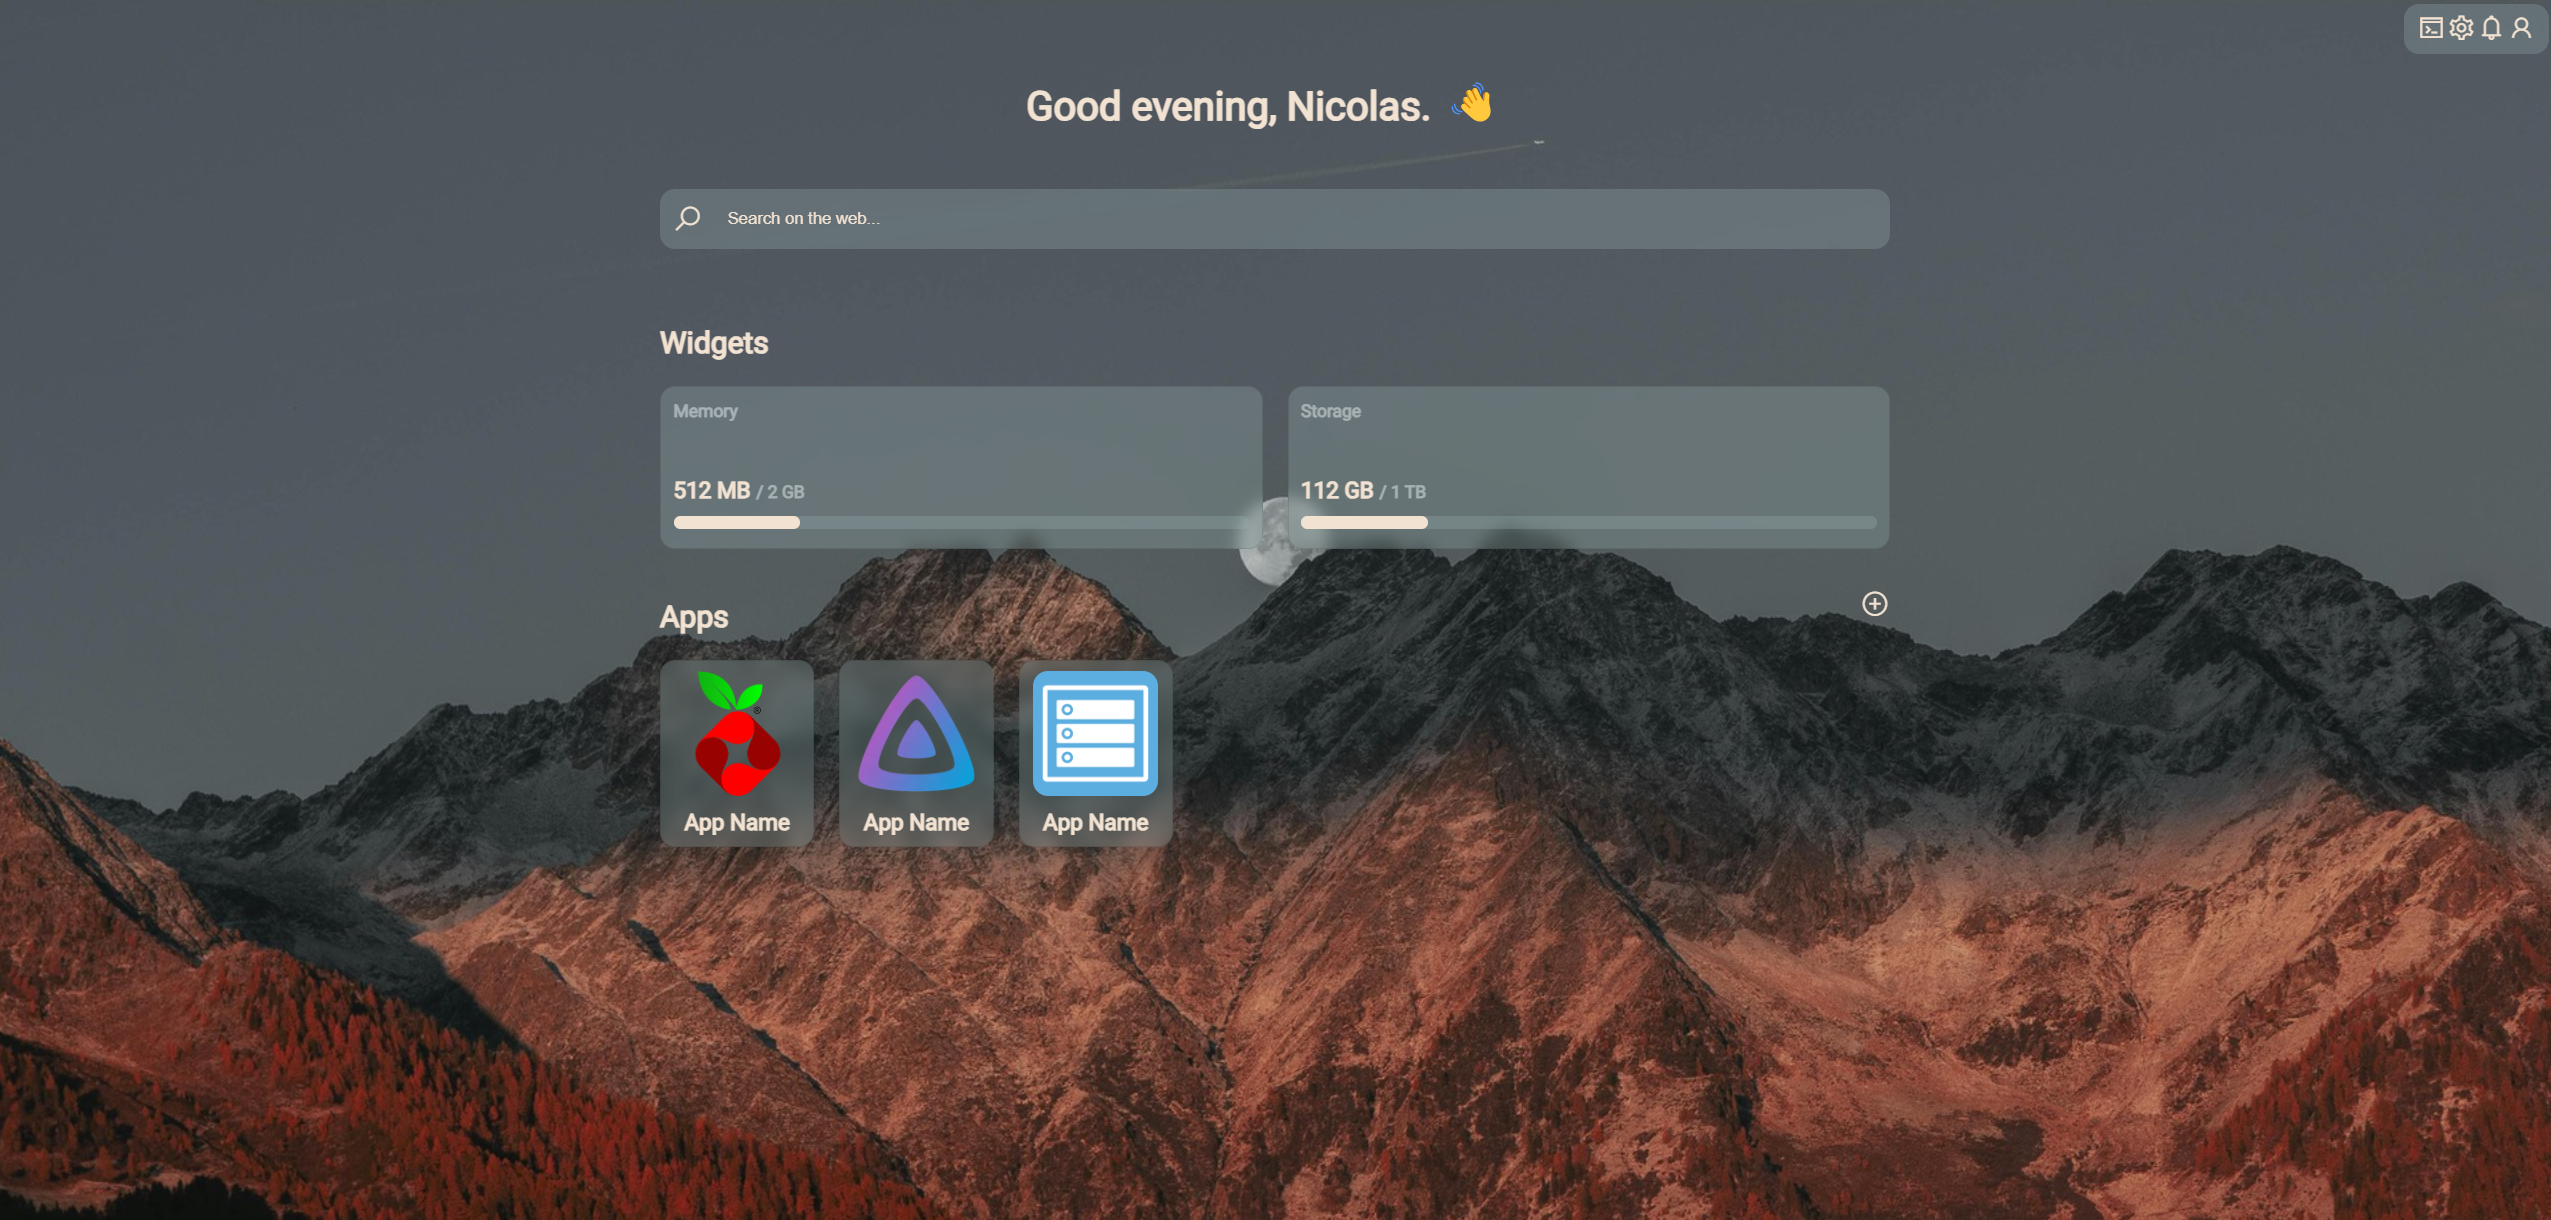
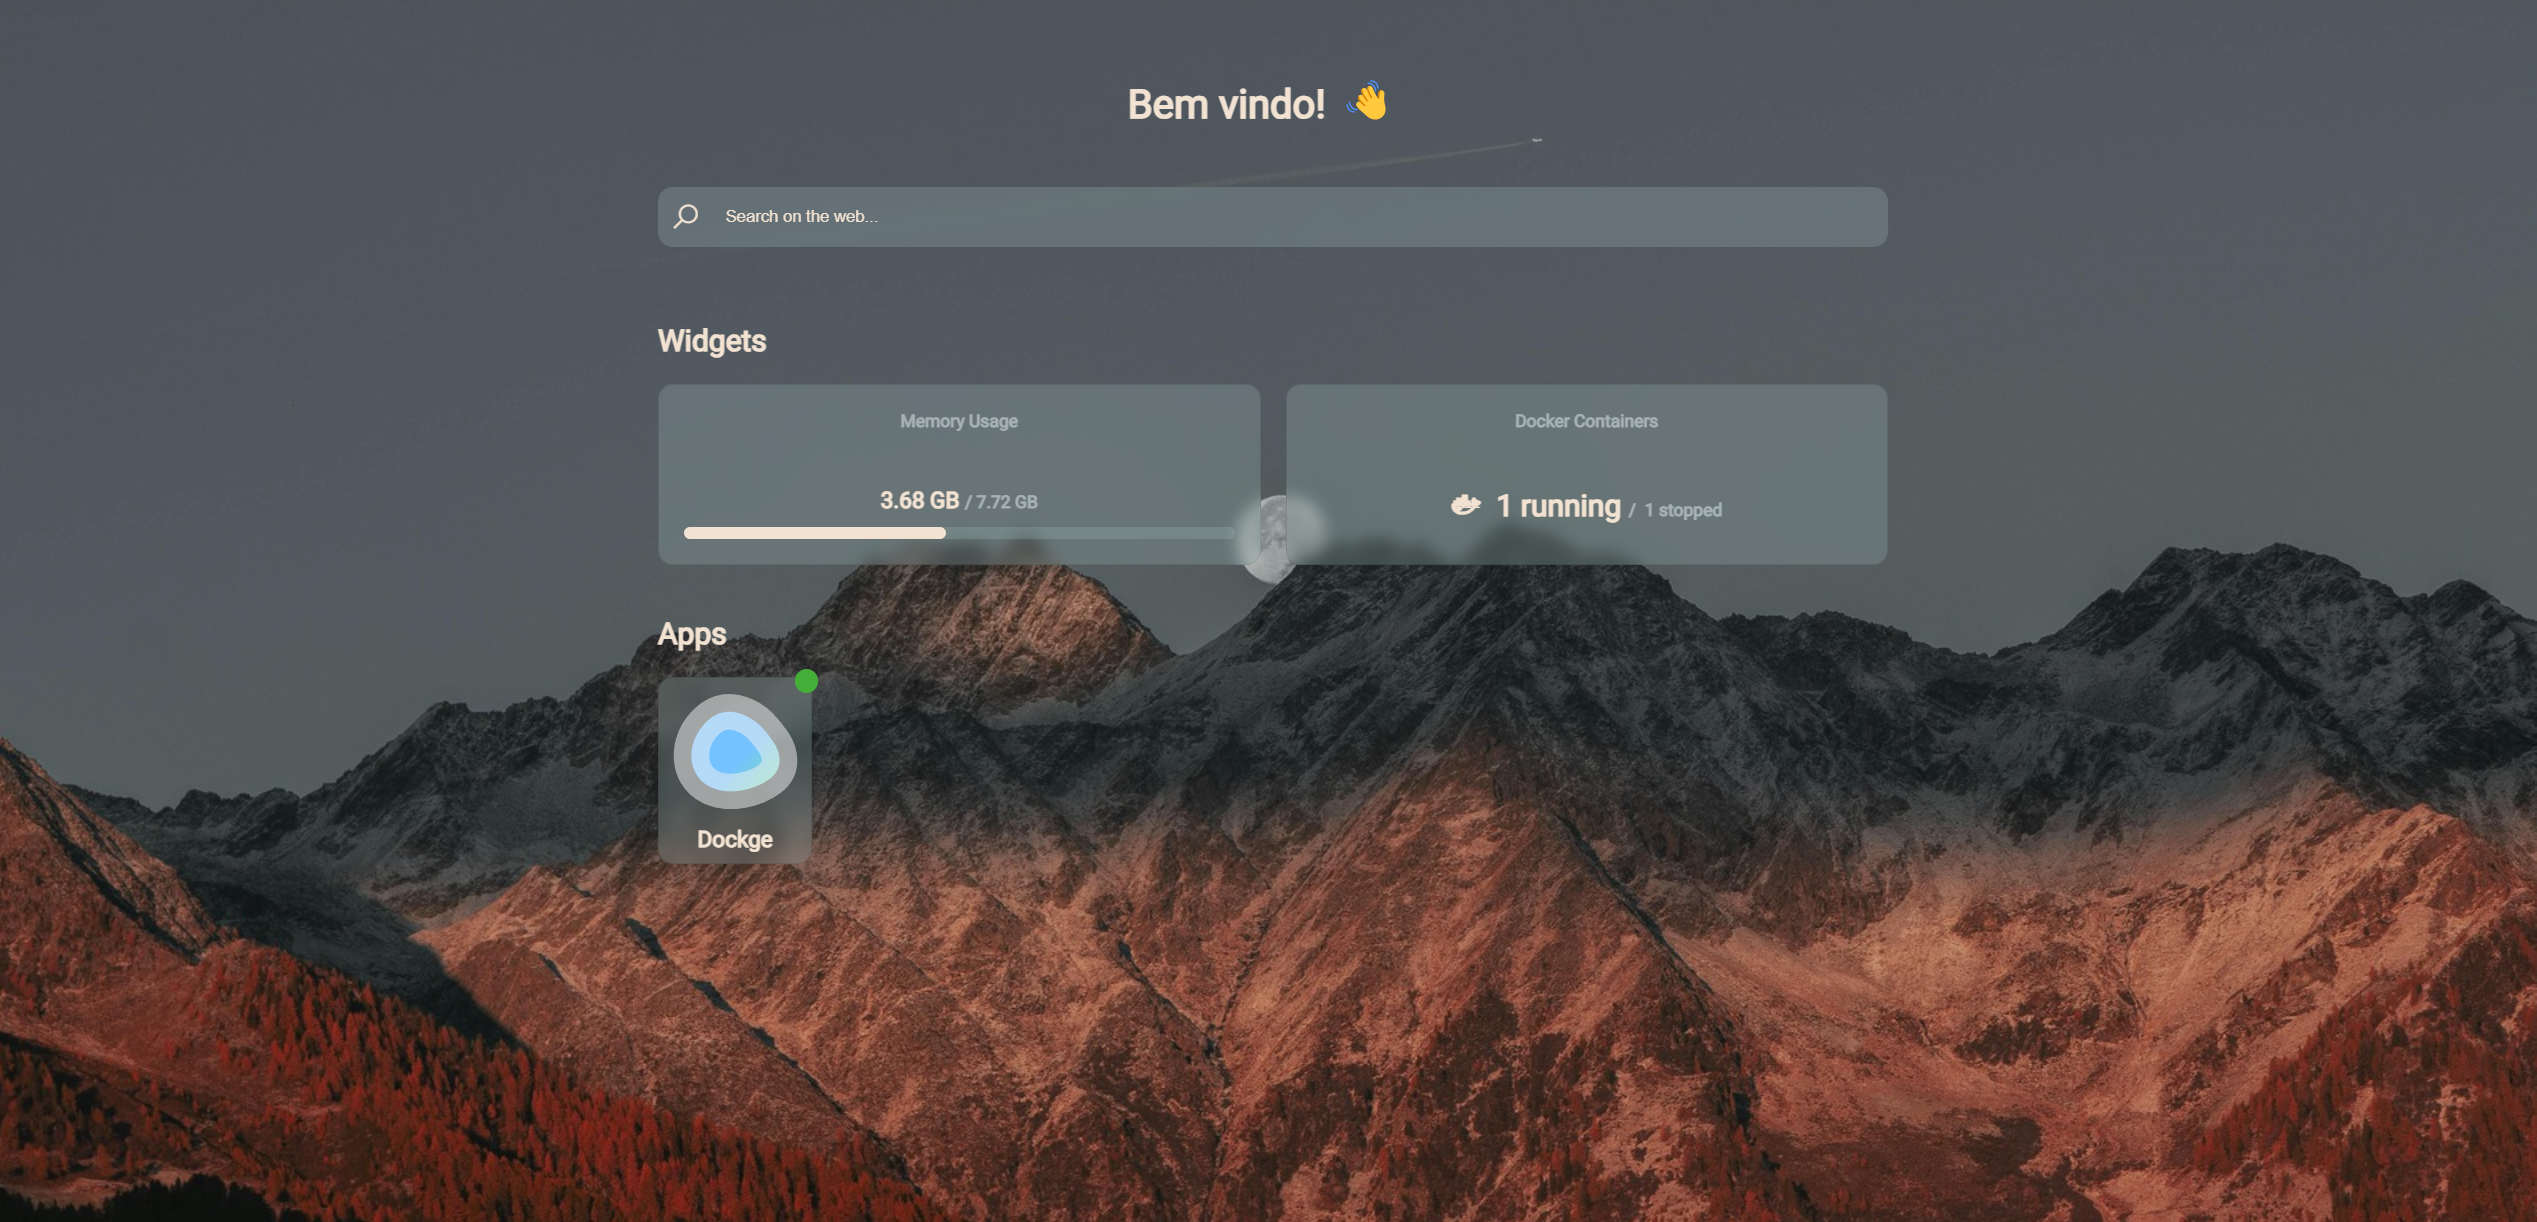
Update readme.md

diff --git a/README.md b/README.md
@@ -3,3 +3,40 @@
 ## Beautiful lightweight server dashboard for creating managing and monitoring docker containers through a web interface.
 
 ![Dashboard demo picture](demos/1-homainer-home-demo.png)
+
+## Configuration
+
+The application list is a simple JSON file that you can update, it is located at `/src/config/app-list.json`.
+
+The data structure is very simple, we have three fields: `name`, `icon` and `url`.
+
+example:
+```json
+[
+    {
+        "name": "Dockge",
+        "icon": "https://dockge.kuma.pet/icon.svg",
+        "url": "http://192.168.0.9:5001"
+    }
+]
+```
+
+Note: the frontend will periodically ping your service's url to check if it is still running and update the colored indicator at the top-right of your application icon
+
+You will also find a `config.json` file in the same directory `/src/config/config.json` where you can customize the welcome message, the placeholder text for the search bar and the port in which the server runs.
+
+The showToolbar feature is currently a WIP and shouldn't be enabled. 
+```json
+{
+    "welcomeMessage": "Bem vindo!",
+    "searchMessage": "Buscar na internet",
+    "port": 8001,
+    "showToolbar": false
+}
+```
+
+## Running
+
+To start the server as a daemon, we need to go to the `/src/` directory and run `npm start &`.
+
+I'm working on containerizing this server so it'll be easier to install and be able to fit in your current docker setup.
